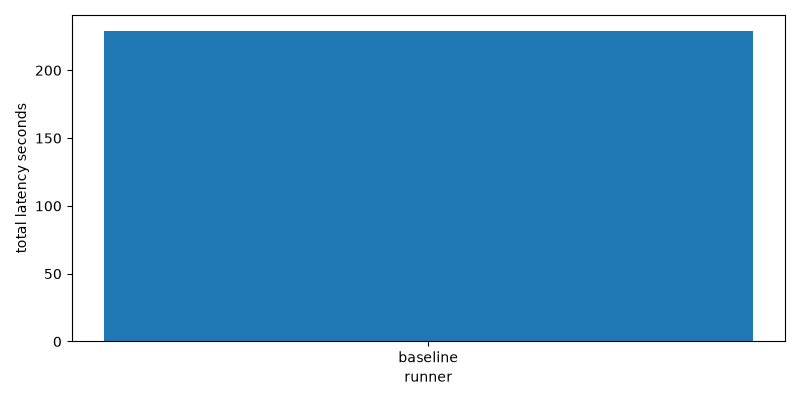
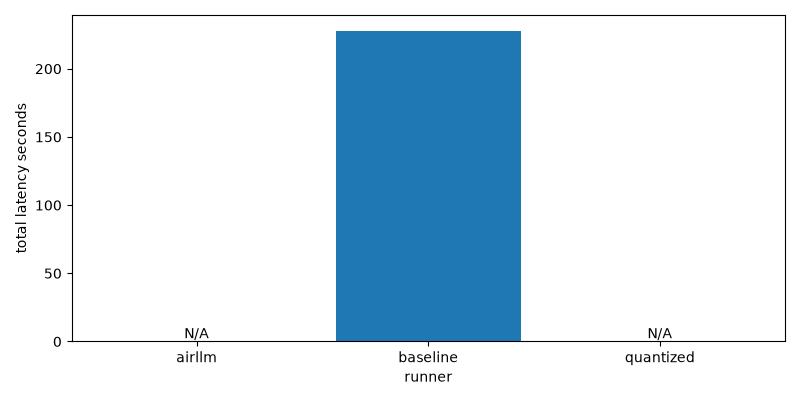
Show failed runners in benchmark plots

diff --git a/tests/test_plotting.py b/tests/test_plotting.py
@@ -1,0 +1,34 @@
+from pathlib import Path
+
+from airllm_ex05.models import BenchmarkResult, MetricSummary
+from airllm_ex05.plotting import plot_metric
+
+
+def test_plot_metric_keeps_failed_runner_without_metric(tmp_path: Path) -> None:
+    results = [
+        BenchmarkResult(
+            runner="baseline",
+            model_name="model",
+            prompt="prompt",
+            prompt_index=0,
+            run_index=0,
+            status="success",
+            metrics=MetricSummary(total_latency_seconds=1.0),
+        ),
+        BenchmarkResult(
+            runner="quantized",
+            model_name="model",
+            prompt="prompt",
+            prompt_index=0,
+            run_index=0,
+            status="failed",
+            metrics=MetricSummary(),
+            error_type="MemoryError",
+            error_message="too large",
+        ),
+    ]
+
+    output = plot_metric(results, "total_latency_seconds", tmp_path / "latency.png")
+
+    assert output is not None
+    assert output.exists()

diff --git a/src/airllm_ex05/plotting.py b/src/airllm_ex05/plotting.py
@@ -14,19 +14,33 @@ from airllm_ex05.models import BenchmarkResult
 
 def plot_metric(results: list[BenchmarkResult], metric_name: str, output_path: Path) -> Path | None:
     """Create a bar chart for a benchmark metric."""
-    values = []
-    labels = []
+    grouped: dict[str, list[float]] = {}
     for result in results:
+        grouped.setdefault(result.runner, [])
         value = getattr(result.metrics, metric_name)
-        if value is None:
-            continue
-        labels.append(result.runner)
-        values.append(value)
-    if not values:
+        if value is not None:
+            grouped[result.runner].append(value)
+    if not grouped:
         return None
+    labels = list(grouped)
+    values = [
+        sum(metric_values) / len(metric_values) if metric_values else 0.0
+        for metric_values in grouped.values()
+    ]
     output_path.parent.mkdir(parents=True, exist_ok=True)
     plt.figure(figsize=(8, 4))
-    plt.bar(labels, values)
+    bars = plt.bar(labels, values)
+    for bar, metric_values in zip(bars, grouped.values(), strict=True):
+        if metric_values:
+            continue
+        bar.set_hatch("//")
+        plt.text(
+            bar.get_x() + bar.get_width() / 2,
+            0,
+            "N/A",
+            ha="center",
+            va="bottom",
+        )
     plt.ylabel(metric_name.replace("_", " "))
     plt.xlabel("runner")
     plt.tight_layout()